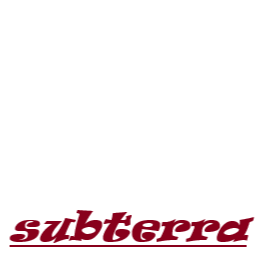
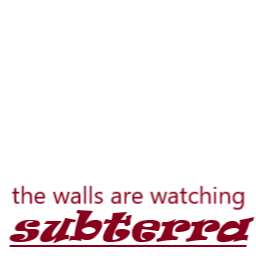
"collision detection"

Changed region(s): [[0.4375, 0.7188, 0.9688, 0.8438], [0.0312, 0.7188, 0.4062, 0.8125]]

diff --git a/src/main.c b/src/main.c
@@ -1,7 +1,7 @@
 #include "subterra/main.h"
 
 mat4 proj;
-char gameActive = 0, won = 0;
+char gameActive = 0, won = 0, lost = 0;
 
 /* main function, with main loop */
 int main()
@@ -17,6 +17,7 @@ int main()
     unsigned int finishtex = create_texture("res/win.jpg", 0);
     unsigned int startui = create_texture("res/ui.png", 1);
     unsigned int winui = create_texture("res/winui.png", 1);
+    unsigned int loseui = create_texture("res/loseui.png", 1);
 
     /* all the matrix stuff */
     /* each individual object has a model! */
@@ -57,8 +58,26 @@ int main()
             glBindBuffer(GL_ARRAY_BUFFER, PLANEV);
             glBindTexture(GL_TEXTURE_2D, winui);
             glDrawArrays(GL_TRIANGLES, 0, 6);
-        } else if (gameActive)
+        } else if (lost)
         {
+            glActiveTexture(GL_TEXTURE0);
+            glBindVertexArray(VAO);
+            shader_use_flat();
+            mat4 identity = GLM_MAT4_IDENTITY_INIT;
+            shader_uniforms(&identity, &identity, &uimodel);
+            glBindBuffer(GL_ARRAY_BUFFER, PLANEV);
+            glBindTexture(GL_TEXTURE_2D, loseui);
+            glDrawArrays(GL_TRIANGLES, 0, 6);
+        } else if (!gameActive){
+            glActiveTexture(GL_TEXTURE0);
+            glBindVertexArray(VAO);
+            shader_use_flat();
+            mat4 identity = GLM_MAT4_IDENTITY_INIT;
+            shader_uniforms(&identity, &identity, &uimodel);
+            glBindBuffer(GL_ARRAY_BUFFER, PLANEV);
+            glBindTexture(GL_TEXTURE_2D, startui);
+            glDrawArrays(GL_TRIANGLES, 0, 6);
+        } else {
             float currentFrame = glfwGetTime();
             delta = currentFrame - lastFrame;
             lastFrame = currentFrame;
@@ -87,16 +106,6 @@ int main()
             shader_use_flat();
             shader_uniforms(&proj, view, &finishModel);
             glBindTexture(GL_TEXTURE_2D, finishtex);
-            glDrawArrays(GL_TRIANGLES, 0, 6);
-        }
-        else {
-            glActiveTexture(GL_TEXTURE0);
-            glBindVertexArray(VAO);
-            shader_use_flat();
-            mat4 identity = GLM_MAT4_IDENTITY_INIT;
-            shader_uniforms(&identity, &identity, &uimodel);
-            glBindBuffer(GL_ARRAY_BUFFER, PLANEV);
-            glBindTexture(GL_TEXTURE_2D, startui);
             glDrawArrays(GL_TRIANGLES, 0, 6);
         }
         glfwSwapBuffers(window);

diff --git a/src/player.c b/src/player.c
@@ -8,6 +8,8 @@ vec3 camera_up = {0,1,0};
 
 mat4 view = GLM_MAT4_IDENTITY_INIT;
 
+void respawn() { glm_vec3_copy(GLM_VEC3_ZERO, camera_pos); }
+
 void player_input(GLFWwindow* win, float dt)
 {
     vec3 temp;
@@ -39,26 +41,23 @@ void player_input(GLFWwindow* win, float dt)
     }
     if (glfwGetKey(win, GLFW_KEY_P) == GLFW_PRESS)
     {
-        char logtxt[32];
+        char logtxt[48];
         sprintf(logtxt, "%f, %f, %f\n", camera_pos[0], camera_pos[1], camera_pos[2]);
         logger_log(logtxt);
     }
 
-    /* keep player at ground level */
-    camera_pos[1] = 0;
-
     /* check if at/past winpoint */
     if (camera_pos[0] <= -17 && camera_pos[2] >= 17)
-    {
         won = 1;
+
+    vec3 test[2] = {-3.75,-1,-3, -1.25,1,3};
+    if (glm_aabb_point(test, camera_pos))
+    {
+        lost = 1;
     }
 
-    /* TODO: raycast, if too close to wall don't move closer */
-    float where;
-    if(glm_ray_triangle(camera_pos, (vec3){1,0,0}, 0, 0, 0, &where))
-    {
-        
-    }
+    /* keep player at ground level */
+    camera_pos[1] = 0;
 }
 
 /*

diff --git a/src/util/callback.c b/src/util/callback.c
@@ -59,6 +59,9 @@ void click_cb(GLFWwindow* window, int button, int action, int mods)
             gameActive = 1;
         } else if (won) {
             glfwSetWindowShouldClose(window, 1);   
+        } else if (lost) {
+            respawn();
+            lost = 0;
         }
     }
 }

diff --git a/inc/subterra/player.h b/inc/subterra/player.h
@@ -7,6 +7,7 @@
 #include "subterra/util/logger.h"
 #include "subterra/main.h"
 #include <stdio.h>
+void respawn();
 void player_input(GLFWwindow* win, float dt);
 void mouse_input(GLFWwindow* window, double xpos, double ypos);
 void lostfocus();

diff --git a/inc/subterra/main.h b/inc/subterra/main.h
@@ -10,5 +10,5 @@
 #include "subterra/util/logger.h"
 #include "subterra/gfx/maze.h"
 extern mat4 proj;
-extern char gameActive, won;
+extern char gameActive, won, lost;
 #endif
